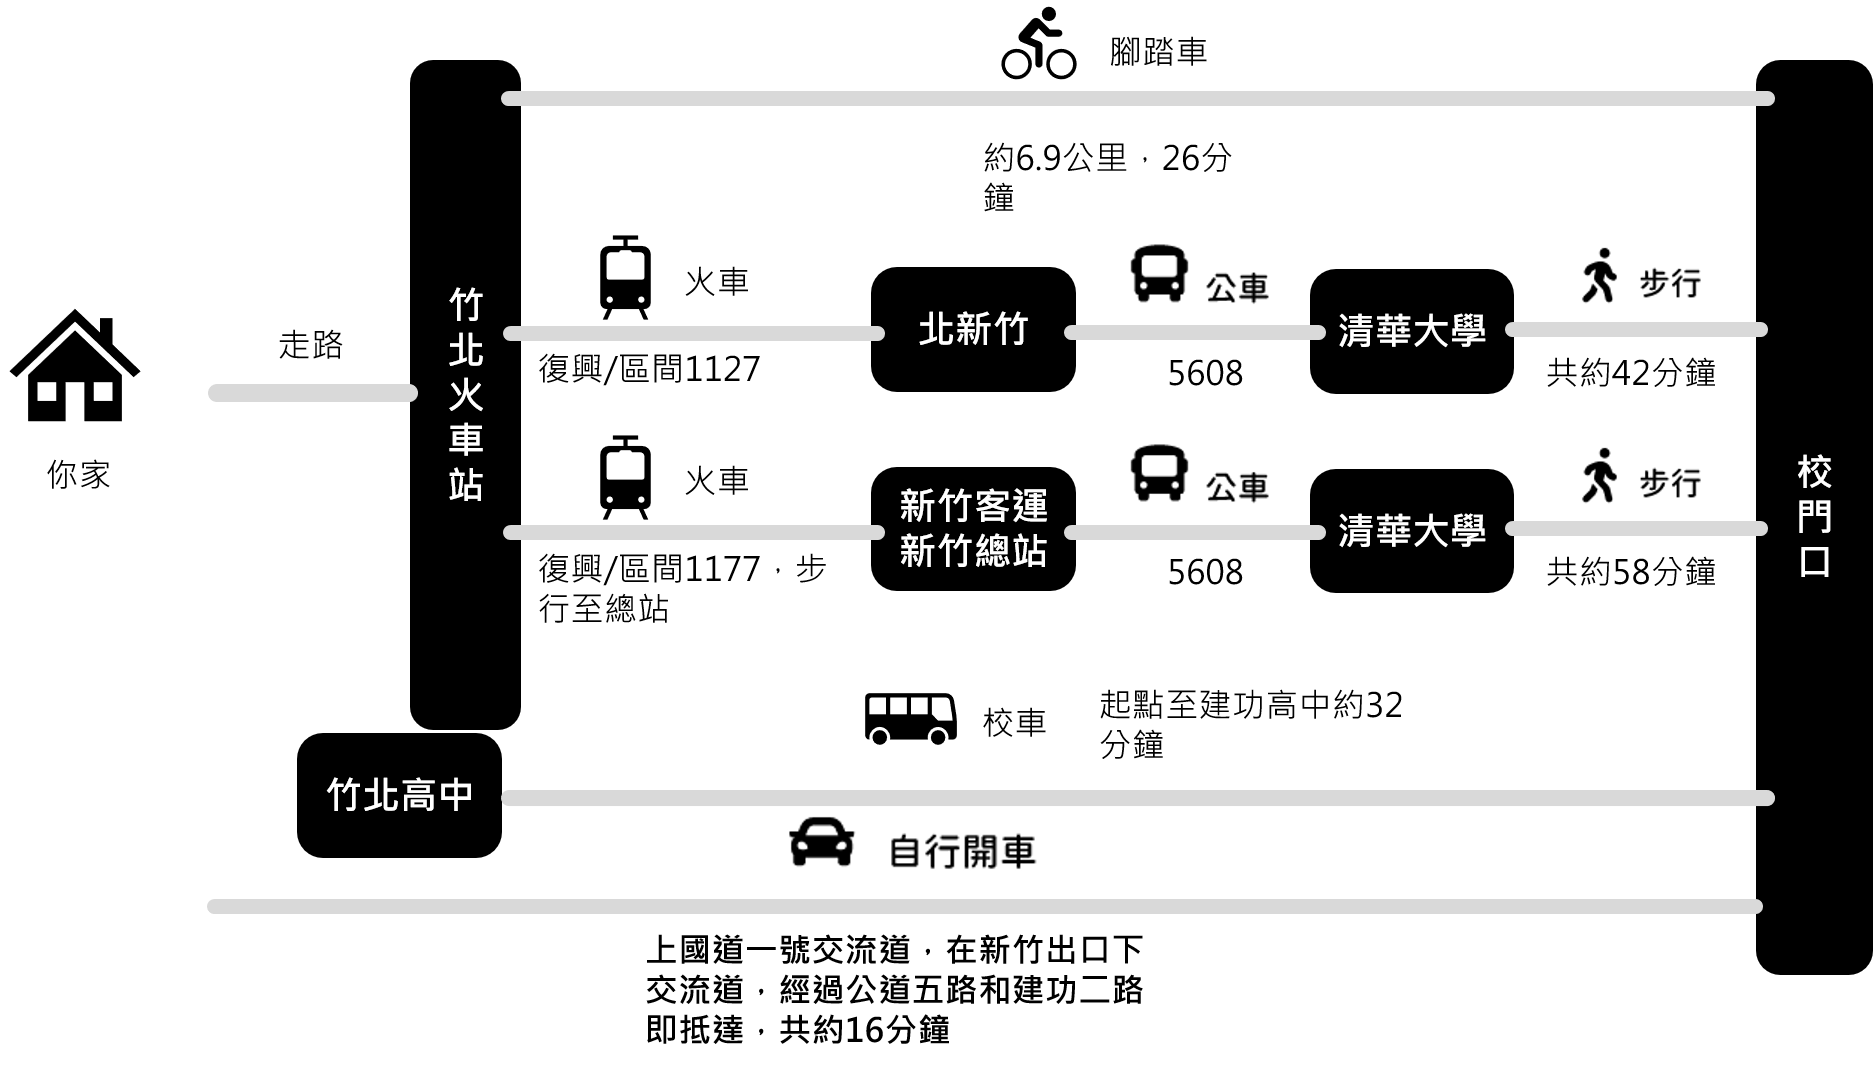
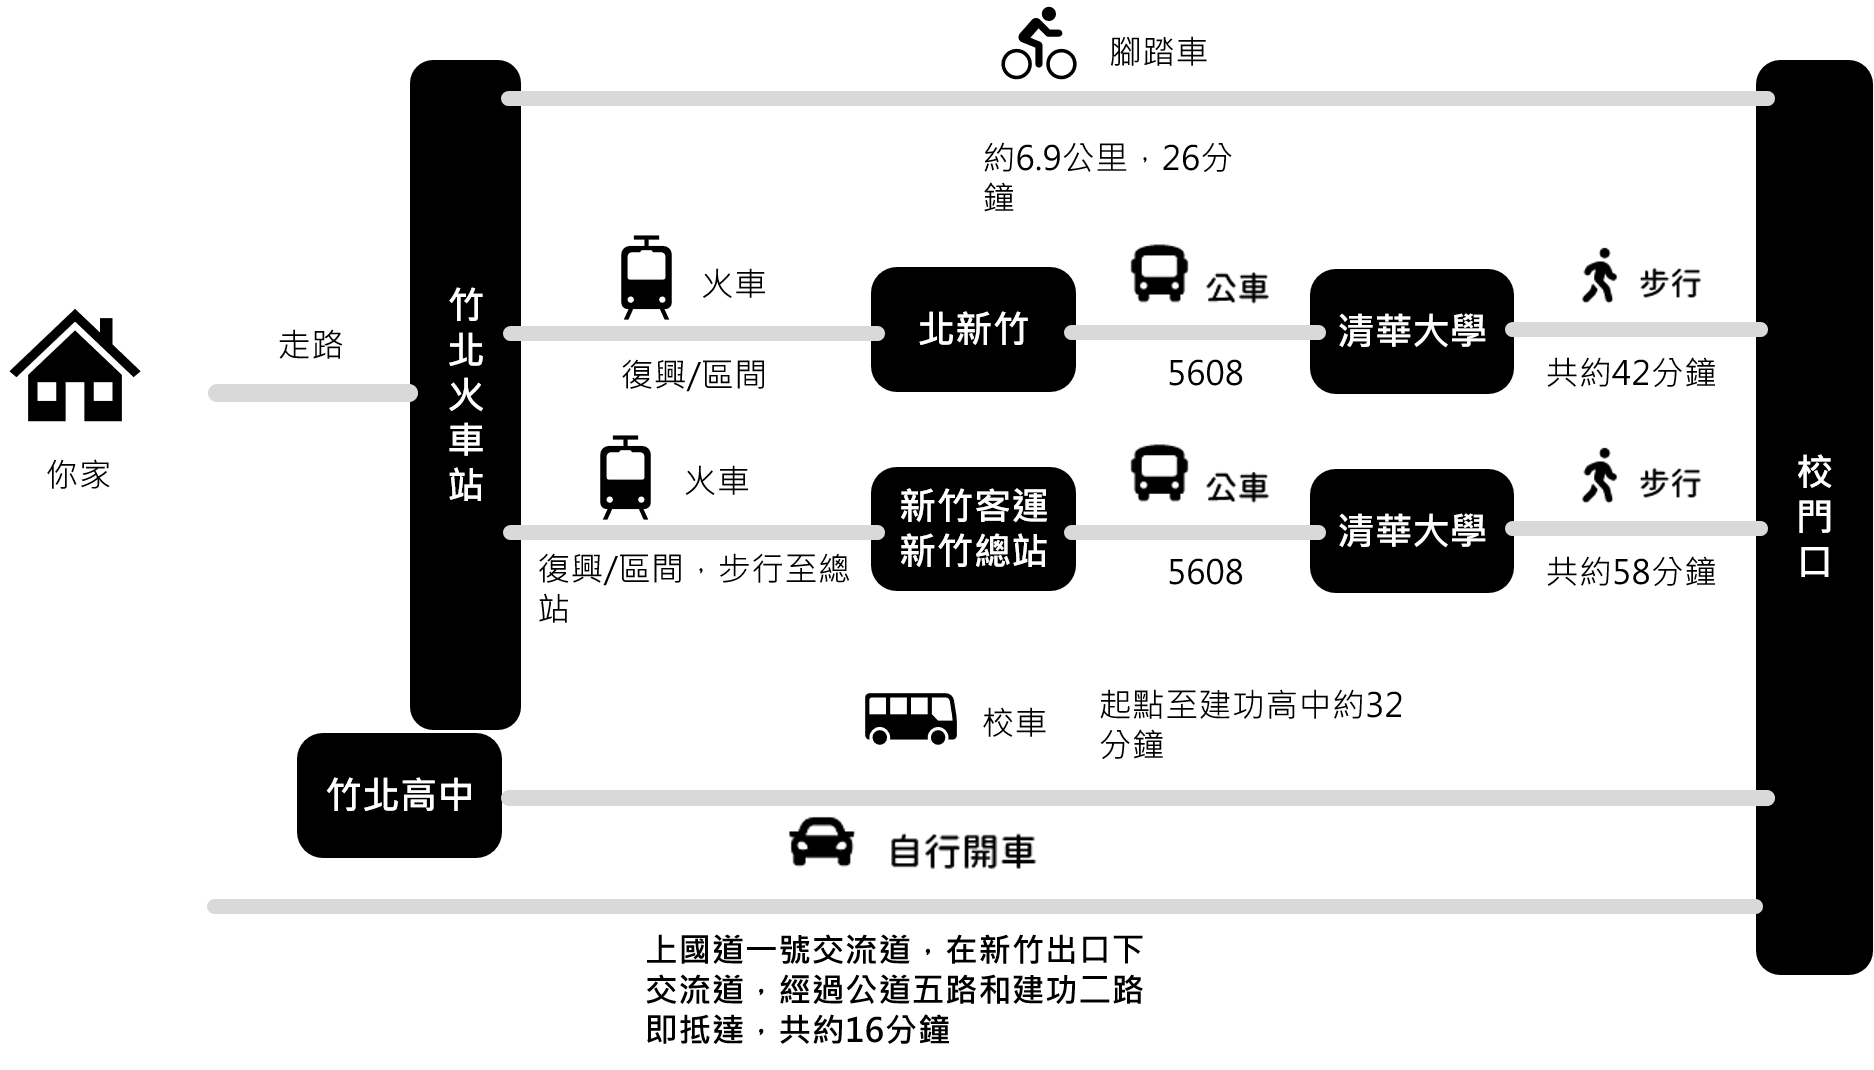
號碼

diff --git a/tmpweb/country/north.html b/tmpweb/country/north.html
@@ -87,8 +87,8 @@
                                 </header>
                                 <p>
                                     <ul>
-                                        <li>復興/區間1127→5608</li>
-                                        <li>復興/區間1177→5608</li>
+                                        <li>復興/區間→5608</li>
+                                        <li>復興/區間→5608</li>
                                     </ul>
                                 </p>
 								
@@ -135,7 +135,6 @@
 					</div>
 
 				</div>
-			<br><br>
 			<!-- Footer -->
 			<div id="footer">
 				<div class="container">
